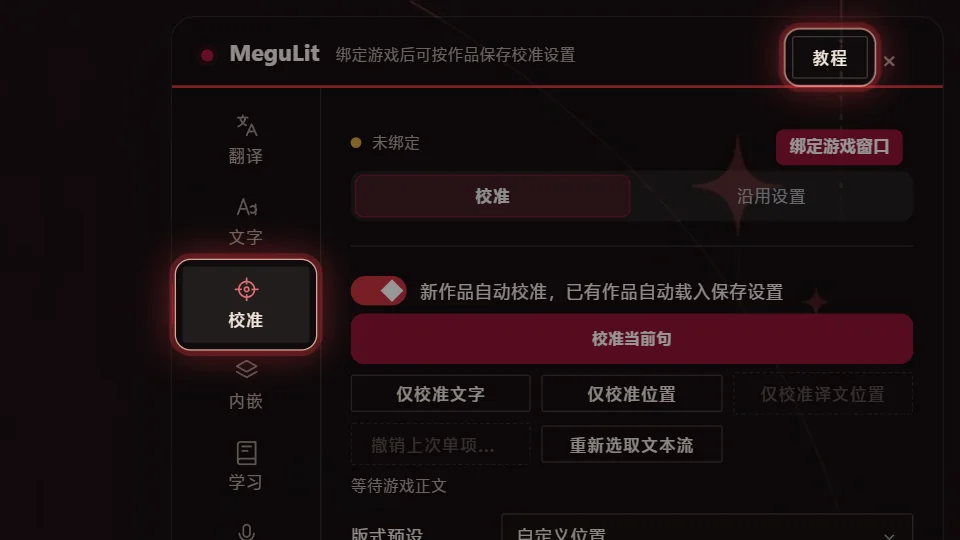
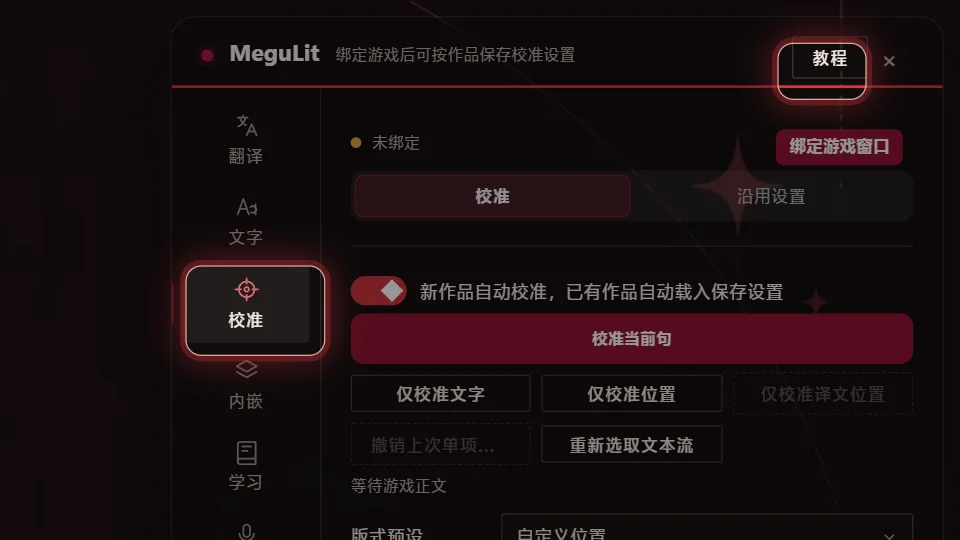
新手引导：三种界面语言各一套配图，英日文案对上实际按钮名，补纯逻辑测试

Changed region(s): [[0.1562, 0.4444, 0.3438, 0.6815], [0.7812, 0.0296, 0.9375, 0.2074]]

diff --git a/web/onboarding-steps.js b/web/onboarding-steps.js
@@ -32,20 +32,22 @@
    steps:{
     capsule:['This is the capsule','MeguLit’s handle on the game screen. Point at it for the shortcuts, click MeguLit in the middle for the menu, hold and drag to move it. It keeps clear of the dialogue.'],
     hotkey:['Open the menu with a hotkey','Press {menu} any time to open or close the menu. Press {cover} to hide every overlay and see the original screen, again to bring it back.'],
-    pages:['What each page does','The pages run down the left: Translate picks the translator, Text styles the lines, Calibrate lines them up, Embed handles replacing the original; Learn, Voice, Log and Look do what they say.'],
-    text:['Make the text yours','On Text, pick Japanese or Chinese, drag the size slider, and switch to Colour to recolour it; you see it at once. To move the text, go to Calibrate and use Drag text box.'],
+    pages:['What each page does','The pages run down the left: Translate picks the translator, Text styles the lines, Calibration lines them up, Embedding replaces the original text; Study, Voice, Log and Appearance do what they say.'],
+    text:['Make the text yours','On Text, pick Japanese or Chinese, drag the size slider, and switch to Colour to recolour it; you see it at once. To move the text, use Drag text box on Calibration.'],
     lookup:['Click a word to look it up','Click a word in the line for its reading and meaning. Drag across a whole sentence to save it or send it to Anki.'],
-    help:['When something is off','Text not lined up with the original: open Calibrate and click Calibrate this line. To see this tour again, click Tutorial at the top right of the menu, or Tutorial in the main window’s top bar.']}},
+    help:['When something is off','Text not lined up with the original: open Calibration and click Calibrate current line. To see this tour again, click Tutorial at the top right of the menu, or Tutorial in the main window’s top bar.']}},
   ja:{kicker:'はじめてガイド',skip:'チュートリアルをスキップ',prev:'戻る',next:'次へ',done:'プレイを始める',never:'今後表示しない',close:'閉じる',replay:'次のゲームでもう一度案内する',replayDone:'次にゲームを起動したとき、もう一度案内します',
    replayNow:'ゲーム内でガイドを開きました',count:'最初の {limit} 回の起動で表示されます。スキップすると以後は出ません',again:'チュートリアル',againTip:'はじめてガイドをもう一度',more:'詳しい説明',
    steps:{
     capsule:['これがカプセル','ゲーム画面上の MeguLit の入口。ポインタを合わせるとショートカット、中央の MeguLit をクリックでメニュー。ドラッグで移動でき、台詞は自動で避けます。'],
     hotkey:['ホットキーでメニュー','{menu} でいつでもメニューを開閉。元の画面を見たいときは {cover} で全表示を隠し、もう一度押すと戻ります。'],
-    pages:['メニューの各ページ','左の列が各ページです。翻訳は訳し方、文字は見た目、校正は位置合わせ、埋め込みは原文の置き換え。学習・音声・履歴・外観はその名のとおり。'],
-    text:['文字を好みの見た目に','「文字」ページで日本語か中国語を選び、サイズのスライダーで大きさ、「色」で色を変えるとすぐ反映されます。位置は「校正」ページの「テキスト枠をドラッグ」で。'],
+    pages:['メニューの各ページ','左の列が各ページです。翻訳は訳し方、文字は見た目、調整は位置合わせ、埋め込みは原文の置き換え。学習・音声・ログ・外観はその名のとおり。'],
+    text:['文字を好みの見た目に','「文字」ページで日本語か中国語を選び、サイズのスライダーで大きさ、「色」で色を変えるとすぐ反映されます。位置は「調整」ページの「テキスト枠をドラッグ」で。'],
     lookup:['クリックで辞書','台詞の単語をクリックすると読みと意味が出ます。一文をドラッグで選ぶと、保存や Anki 追加ができます。'],
-    help:['困ったときは','原文と位置がずれたら「校正」で「この行を校正」。このガイドをもう一度見るには、メニュー右上の「チュートリアル」か、メイン画面上部の「チュートリアル」を。']}}};
+    help:['困ったときは','原文と位置がずれたら「調整」で「現在の文を調整」。このガイドをもう一度見るには、メニュー右上の「チュートリアル」か、メイン画面上部の「チュートリアル」を。']}}};
  const words=locale=>TEXT[locale]||TEXT.zh;
+ /* pictures are taken in each interface language (tools/onboarding-shots.cjs): capsule.webp, capsule-en.webp, capsule-ja.webp */
+ const image=(name,locale)=>name+(locale==='en'||locale==='ja'?'-'+locale:'')+'.webp';
  const hotkey=action=>{try{const fn=(typeof window==='object'&&window.MeguLitHotkeys&&window.MeguLitHotkeys.label)||(typeof require==='function'&&require('./hotkey-label.js').label);return String(fn(action)||'');}catch{return '';}};
  /* {menu} {cover} {bind} {log} become the user's current hotkeys; {n} {i} {limit} plain numbers */
  const fill=(text,vars={})=>String(text).replace(/\{(\w+)\}/g,(m,k)=>k in vars?String(vars[k]):['menu','cover','bind','log'].includes(k)?hotkey(k):m);
@@ -68,5 +70,5 @@
  }
  const stop=value=>({...clean(value),stopped:true,replay:false});
  const replay=value=>({...clean(value),replay:true});
- return {KEY,LIMIT,STEPS,TEXT,words,fill,step,clean,launch,stop,replay,hotkey};
+ return {KEY,LIMIT,STEPS,TEXT,words,image,fill,step,clean,launch,stop,replay,hotkey};
 });

diff --git a/web/onboarding-gallery.js b/web/onboarding-gallery.js
@@ -6,7 +6,7 @@ import './hotkey-label.js';
 import './onboarding-steps.js';
 
 const O = () => globalThis.MeguLitOnboarding;
-const IMG = name => new URL(`./assets/onboarding/${name}.webp`, import.meta.url).href;
+const IMG = (name, locale) => new URL(`./assets/onboarding/${O().image(name, locale)}`, import.meta.url).href;
 let replayApi = null, replayToast = null;
 
 function stepHTML(locale, i, esc) {
@@ -18,7 +18,7 @@ function stepHTML(locale, i, esc) {
 export function galleryHTML(locale, esc) {
   const o = O(), w = o.words(locale), { s, body } = stepHTML(locale, 0, esc);
   return `<section class="tour-gallery" data-step="${s.id}" data-index="0" data-locale="${esc(locale)}" aria-roledescription="carousel">
-<figure class="tour-gallery-shot"><img src="${IMG(s.image)}" alt="" decoding="async"></figure>
+<figure class="tour-gallery-shot"><img src="${IMG(s.image, locale)}" alt="" decoding="async"></figure>
 <div class="tour-gallery-text"><span class="tour-gallery-kicker">✦ ${esc(w.kicker)}</span><h3 class="tour-gallery-title">${esc(s.title)}</h3><p class="tour-gallery-body">${body}</p></div>
 <div class="tour-gallery-bar"><div class="tour-gallery-dots">${o.STEPS.map((x, i) => `<button type="button" data-tour-dot="${i}" aria-label="${esc(o.step(locale, i).title)}"${i ? '' : ' aria-current="step"'}></button>`).join('')}</div>
 <div class="tour-gallery-nav"><button type="button" class="secondary" data-tour-prev hidden>${esc(w.prev)}</button><button type="button" class="primary" data-tour-next>${esc(w.next)}</button></div></div>
@@ -32,7 +32,7 @@ function show(root, i) {
   const esc = v => String(v ?? '').replace(/[&<>"']/g, c => ({ '&': '&amp;', '<': '&lt;', '>': '&gt;', '"': '&quot;', "'": '&#39;' }[c]));
   const { s, body } = stepHTML(locale, i, esc), w = o.words(locale);
   root.dataset.step = s.id; root.dataset.index = String(i);
-  root.querySelector('.tour-gallery-shot img').src = IMG(s.image);
+  root.querySelector('.tour-gallery-shot img').src = IMG(s.image, locale);
   root.querySelector('.tour-gallery-title').textContent = s.title;
   root.querySelector('.tour-gallery-body').innerHTML = body;
   root.querySelectorAll('[data-tour-dot]').forEach((d, k) => { if (k === i) d.setAttribute('aria-current', 'step'); else d.removeAttribute('aria-current'); });

diff --git a/web/reader/modules/onboarding.js b/web/reader/modules/onboarding.js
@@ -19,7 +19,7 @@
  const write=s=>{try{store.setItem(O.KEY,JSON.stringify(s));}catch{}try{window.__tomoyoTranslateRequest?.(JSON.stringify({type:'uiState'}));}catch{}};
  const esc=s=>String(s).replace(/[&<>"']/g,c=>({'&':'&amp;','<':'&lt;','>':'&gt;','"':'&quot;',"'":'&#39;'}[c]));
  const reduce=window.matchMedia?.('(prefers-reduced-motion: reduce)');
- const IMG=name=>new URL('../assets/onboarding/'+name+'.webp',document.baseURI).href;
+ const IMG=name=>new URL('../assets/onboarding/'+O.image(name,lang()),document.baseURI).href;
  const css=document.createElement('style');css.id='mg-tour-style';css.textContent=`
 .mg-tour{position:fixed;inset:0;z-index:2147482600;pointer-events:auto;font-family:var(--mgc-ui,"Microsoft YaHei UI",sans-serif);color:var(--mgc-ink,#f0e5da)}
 .mg-tour-dim{position:absolute;inset:0;width:100%;height:100%;display:block}
